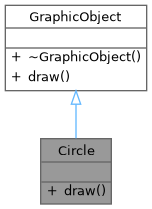
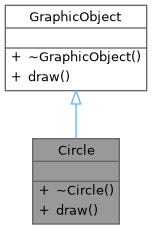
deploy: 8df7f7f30e215f2ab390649db434ee97bf69bb2b

Changed region(s): [[0.2105, 0.6029, 0.7895, 1.0], [0.0263, 0.201, 0.9737, 0.5167], [0.0263, 0.0, 0.9737, 0.1435]]

diff --git a/editorcontroller_8h_source.html b/editorcontroller_8h_source.html
@@ -92,17 +92,17 @@ $(document).ready(function() { init_codefold(0); });
 <div class="foldopen" id="foldopen00018" data-start="{" data-end="};">
 <div class="line"><a id="l00018" name="l00018"></a><span class="lineno"><a class="line" href="classEditorController.html">   18</a></span><span class="keyword">class </span><a class="code hl_class" href="classEditorController.html">EditorController</a> {</div>
 <div class="line"><a id="l00019" name="l00019"></a><span class="lineno">   19</span><span class="keyword">public</span>:</div>
-<div class="line"><a id="l00020" name="l00020"></a><span class="lineno"><a class="line" href="classEditorController.html#a94914431124dedb036bb23295a218e6b">   20</a></span>    <span class="keyword">explicit</span> <a class="code hl_function" href="classEditorController.html#a94914431124dedb036bb23295a218e6b">EditorController</a>(std::shared_ptr&lt;Document&gt; document);</div>
+<div class="line"><a id="l00020" name="l00020"></a><span class="lineno"><a class="line" href="classEditorController.html#a94914431124dedb036bb23295a218e6b">   20</a></span>    <span class="keyword">explicit</span> <a class="code hl_function" href="classEditorController.html#a94914431124dedb036bb23295a218e6b">EditorController</a>(std::shared_ptr&lt;Document&gt; document) {(void)document;};</div>
 <div class="line"><a id="l00021" name="l00021"></a><span class="lineno">   21</span> </div>
-<div class="line"><a id="l00022" name="l00022"></a><span class="lineno"><a class="line" href="classEditorController.html#ab442202f8dcff28f1e1ea28f6b7e4783">   22</a></span>    <span class="keywordtype">void</span> <a class="code hl_function" href="classEditorController.html#ab442202f8dcff28f1e1ea28f6b7e4783">newDocument</a>();</div>
+<div class="line"><a id="l00022" name="l00022"></a><span class="lineno"><a class="line" href="classEditorController.html#ab442202f8dcff28f1e1ea28f6b7e4783">   22</a></span>    <span class="keywordtype">void</span> <a class="code hl_function" href="classEditorController.html#ab442202f8dcff28f1e1ea28f6b7e4783">newDocument</a>() {};</div>
 <div class="line"><a id="l00023" name="l00023"></a><span class="lineno">   23</span> </div>
 <div class="line"><a id="l00028" name="l00028"></a><span class="lineno"><a class="line" href="classEditorController.html#afc43a06680455e654fd0f673515512d0">   28</a></span>    <span class="keywordtype">void</span> <a class="code hl_function" href="classEditorController.html#afc43a06680455e654fd0f673515512d0">importDocument</a>(<span class="keyword">const</span> std::string &amp;path);</div>
 <div class="line"><a id="l00029" name="l00029"></a><span class="lineno">   29</span> </div>
-<div class="line"><a id="l00034" name="l00034"></a><span class="lineno"><a class="line" href="classEditorController.html#a0544178c75ec1a963bdb097a9b037681">   34</a></span>    <span class="keywordtype">void</span> <a class="code hl_function" href="classEditorController.html#a0544178c75ec1a963bdb097a9b037681">exportDocument</a>(<span class="keyword">const</span> std::string &amp;path);</div>
+<div class="line"><a id="l00034" name="l00034"></a><span class="lineno"><a class="line" href="classEditorController.html#a0544178c75ec1a963bdb097a9b037681">   34</a></span>    <span class="keywordtype">void</span> <a class="code hl_function" href="classEditorController.html#a0544178c75ec1a963bdb097a9b037681">exportDocument</a>(<span class="keyword">const</span> std::string &amp;path) {(void)path;};</div>
 <div class="line"><a id="l00035" name="l00035"></a><span class="lineno">   35</span> </div>
-<div class="line"><a id="l00040" name="l00040"></a><span class="lineno"><a class="line" href="classEditorController.html#a9a14b7c31f68eb2ee72bed1bdb5787a8">   40</a></span>    <span class="keywordtype">void</span> <a class="code hl_function" href="classEditorController.html#a9a14b7c31f68eb2ee72bed1bdb5787a8">createObject</a>(std::shared_ptr&lt;GraphicObject&gt; obj);</div>
+<div class="line"><a id="l00040" name="l00040"></a><span class="lineno"><a class="line" href="classEditorController.html#a9a14b7c31f68eb2ee72bed1bdb5787a8">   40</a></span>    <span class="keywordtype">void</span> <a class="code hl_function" href="classEditorController.html#a9a14b7c31f68eb2ee72bed1bdb5787a8">createObject</a>(std::shared_ptr&lt;GraphicObject&gt; obj) {(void)obj;};</div>
 <div class="line"><a id="l00041" name="l00041"></a><span class="lineno">   41</span> </div>
-<div class="line"><a id="l00046" name="l00046"></a><span class="lineno"><a class="line" href="classEditorController.html#a775a51c5ab4b2f17e519e4734142d834">   46</a></span>    <span class="keywordtype">void</span> <a class="code hl_function" href="classEditorController.html#a775a51c5ab4b2f17e519e4734142d834">deleteObject</a>(std::shared_ptr&lt;GraphicObject&gt; obj);</div>
+<div class="line"><a id="l00046" name="l00046"></a><span class="lineno"><a class="line" href="classEditorController.html#a775a51c5ab4b2f17e519e4734142d834">   46</a></span>    <span class="keywordtype">void</span> <a class="code hl_function" href="classEditorController.html#a775a51c5ab4b2f17e519e4734142d834">deleteObject</a>(std::shared_ptr&lt;GraphicObject&gt; obj) {(void)obj;};</div>
 <div class="line"><a id="l00047" name="l00047"></a><span class="lineno">   47</span> </div>
 <div class="line"><a id="l00048" name="l00048"></a><span class="lineno">   48</span><span class="keyword">private</span>:</div>
 <div class="line"><a id="l00049" name="l00049"></a><span class="lineno">   49</span>    std::shared_ptr&lt;Document&gt; m_document;</div>
@@ -110,11 +110,11 @@ $(document).ready(function() { init_codefold(0); });
 </div>
 <div class="ttc" id="aclassDocument_html"><div class="ttname"><a href="classDocument.html">Document</a></div><div class="ttdoc">Документ векторного редактора.</div><div class="ttdef"><b>Definition</b> document.h:16</div></div>
 <div class="ttc" id="aclassEditorController_html"><div class="ttname"><a href="classEditorController.html">EditorController</a></div><div class="ttdoc">Контроллер графического редактора.</div><div class="ttdef"><b>Definition</b> editorcontroller.h:18</div></div>
-<div class="ttc" id="aclassEditorController_html_a0544178c75ec1a963bdb097a9b037681"><div class="ttname"><a href="classEditorController.html#a0544178c75ec1a963bdb097a9b037681">EditorController::exportDocument</a></div><div class="ttdeci">void exportDocument(const std::string &amp;path)</div><div class="ttdoc">Экспортировать документ в файл.</div></div>
-<div class="ttc" id="aclassEditorController_html_a775a51c5ab4b2f17e519e4734142d834"><div class="ttname"><a href="classEditorController.html#a775a51c5ab4b2f17e519e4734142d834">EditorController::deleteObject</a></div><div class="ttdeci">void deleteObject(std::shared_ptr&lt; GraphicObject &gt; obj)</div><div class="ttdoc">Удалить графический объект.</div></div>
-<div class="ttc" id="aclassEditorController_html_a94914431124dedb036bb23295a218e6b"><div class="ttname"><a href="classEditorController.html#a94914431124dedb036bb23295a218e6b">EditorController::EditorController</a></div><div class="ttdeci">EditorController(std::shared_ptr&lt; Document &gt; document)</div></div>
-<div class="ttc" id="aclassEditorController_html_a9a14b7c31f68eb2ee72bed1bdb5787a8"><div class="ttname"><a href="classEditorController.html#a9a14b7c31f68eb2ee72bed1bdb5787a8">EditorController::createObject</a></div><div class="ttdeci">void createObject(std::shared_ptr&lt; GraphicObject &gt; obj)</div><div class="ttdoc">Создать графический объект.</div></div>
-<div class="ttc" id="aclassEditorController_html_ab442202f8dcff28f1e1ea28f6b7e4783"><div class="ttname"><a href="classEditorController.html#ab442202f8dcff28f1e1ea28f6b7e4783">EditorController::newDocument</a></div><div class="ttdeci">void newDocument()</div></div>
+<div class="ttc" id="aclassEditorController_html_a0544178c75ec1a963bdb097a9b037681"><div class="ttname"><a href="classEditorController.html#a0544178c75ec1a963bdb097a9b037681">EditorController::exportDocument</a></div><div class="ttdeci">void exportDocument(const std::string &amp;path)</div><div class="ttdoc">Экспортировать документ в файл.</div><div class="ttdef"><b>Definition</b> editorcontroller.h:34</div></div>
+<div class="ttc" id="aclassEditorController_html_a775a51c5ab4b2f17e519e4734142d834"><div class="ttname"><a href="classEditorController.html#a775a51c5ab4b2f17e519e4734142d834">EditorController::deleteObject</a></div><div class="ttdeci">void deleteObject(std::shared_ptr&lt; GraphicObject &gt; obj)</div><div class="ttdoc">Удалить графический объект.</div><div class="ttdef"><b>Definition</b> editorcontroller.h:46</div></div>
+<div class="ttc" id="aclassEditorController_html_a94914431124dedb036bb23295a218e6b"><div class="ttname"><a href="classEditorController.html#a94914431124dedb036bb23295a218e6b">EditorController::EditorController</a></div><div class="ttdeci">EditorController(std::shared_ptr&lt; Document &gt; document)</div><div class="ttdef"><b>Definition</b> editorcontroller.h:20</div></div>
+<div class="ttc" id="aclassEditorController_html_a9a14b7c31f68eb2ee72bed1bdb5787a8"><div class="ttname"><a href="classEditorController.html#a9a14b7c31f68eb2ee72bed1bdb5787a8">EditorController::createObject</a></div><div class="ttdeci">void createObject(std::shared_ptr&lt; GraphicObject &gt; obj)</div><div class="ttdoc">Создать графический объект.</div><div class="ttdef"><b>Definition</b> editorcontroller.h:40</div></div>
+<div class="ttc" id="aclassEditorController_html_ab442202f8dcff28f1e1ea28f6b7e4783"><div class="ttname"><a href="classEditorController.html#ab442202f8dcff28f1e1ea28f6b7e4783">EditorController::newDocument</a></div><div class="ttdeci">void newDocument()</div><div class="ttdef"><b>Definition</b> editorcontroller.h:22</div></div>
 <div class="ttc" id="aclassEditorController_html_afc43a06680455e654fd0f673515512d0"><div class="ttname"><a href="classEditorController.html#afc43a06680455e654fd0f673515512d0">EditorController::importDocument</a></div><div class="ttdeci">void importDocument(const std::string &amp;path)</div><div class="ttdoc">Импортировать документ из файла.</div></div>
 <div class="ttc" id="aclassGraphicObject_html"><div class="ttname"><a href="classGraphicObject.html">GraphicObject</a></div><div class="ttdoc">Абстрактный базовый класс графического примитива.</div><div class="ttdef"><b>Definition</b> graphicobject.h:12</div></div>
 </div><!-- fragment --></div><!-- contents -->

diff --git a/classCircle.html b/classCircle.html
@@ -85,7 +85,7 @@ Inheritance diagram for Circle:</div>
 <div class="dyncontent">
 <div class="center"><img src="classCircle__inherit__graph.png" border="0" usemap="#aCircle_inherit__map" alt="Inheritance graph"/></div>
 <map name="aCircle_inherit__map" id="aCircle_inherit__map">
-<area shape="rect" title="Графический примитив «Окружность»." alt="" coords="41,139,111,204"/>
+<area shape="rect" title="Графический примитив «Окружность»." alt="" coords="33,139,119,224"/>
 <area shape="rect" href="classGraphicObject.html" title="Абстрактный базовый класс графического примитива." alt="" coords="5,5,147,91"/>
 <area shape="poly" title=" " alt="" coords="79,104,79,138,73,138,73,104"/>
 </map>
@@ -95,7 +95,7 @@ Collaboration diagram for Circle:</div>
 <div class="dyncontent">
 <div class="center"><img src="classCircle__coll__graph.png" border="0" usemap="#aCircle_coll__map" alt="Collaboration graph"/></div>
 <map name="aCircle_coll__map" id="aCircle_coll__map">
-<area shape="rect" title="Графический примитив «Окружность»." alt="" coords="41,139,111,204"/>
+<area shape="rect" title="Графический примитив «Окружность»." alt="" coords="33,139,119,224"/>
 <area shape="rect" href="classGraphicObject.html" title="Абстрактный базовый класс графического примитива." alt="" coords="5,5,147,91"/>
 <area shape="poly" title=" " alt="" coords="79,104,79,138,73,138,73,104"/>
 </map>
@@ -103,6 +103,8 @@ Collaboration diagram for Circle:</div>
 <table class="memberdecls">
 <tr class="heading"><td colspan="2"><h2 class="groupheader"><a id="pub-methods" name="pub-methods"></a>
 Public Member Functions</h2></td></tr>
+<tr class="memitem:af7a52228c8211080cf2100b55c8a7a64" id="r_af7a52228c8211080cf2100b55c8a7a64"><td class="memItemLeft" align="right" valign="top">&#160;</td><td class="memItemRight" valign="bottom"><a class="el" href="classCircle.html#af7a52228c8211080cf2100b55c8a7a64">~Circle</a> () override=default</td></tr>
+<tr class="separator:af7a52228c8211080cf2100b55c8a7a64"><td class="memSeparator" colspan="2">&#160;</td></tr>
 <tr class="memitem:a1761e05fd2be436df2414eba613b473d" id="r_a1761e05fd2be436df2414eba613b473d"><td class="memItemLeft" align="right" valign="top">void&#160;</td><td class="memItemRight" valign="bottom"><a class="el" href="classCircle.html#a1761e05fd2be436df2414eba613b473d">draw</a> () const override</td></tr>
 <tr class="memdesc:a1761e05fd2be436df2414eba613b473d"><td class="mdescLeft">&#160;</td><td class="mdescRight">Отрисовка графического примитива.  <br /></td></tr>
 <tr class="separator:a1761e05fd2be436df2414eba613b473d"><td class="memSeparator" colspan="2">&#160;</td></tr>
@@ -113,7 +115,33 @@ Public Member Functions</h2></td></tr>
 <a name="details" id="details"></a><h2 class="groupheader">Detailed Description</h2>
 <div class="textblock"><p>Графический примитив «Окружность». </p>
 <p>Конкретная реализация графического объекта. Наследуется от <a class="el" href="classGraphicObject.html" title="Абстрактный базовый класс графического примитива.">GraphicObject</a> и реализует интерфейс отрисовки. </p>
-</div><h2 class="groupheader">Member Function Documentation</h2>
+</div><h2 class="groupheader">Constructor &amp; Destructor Documentation</h2>
+<a id="af7a52228c8211080cf2100b55c8a7a64" name="af7a52228c8211080cf2100b55c8a7a64"></a>
+<h2 class="memtitle"><span class="permalink"><a href="#af7a52228c8211080cf2100b55c8a7a64">&#9670;&#160;</a></span>~Circle()</h2>
+
+<div class="memitem">
+<div class="memproto">
+<table class="mlabels">
+  <tr>
+  <td class="mlabels-left">
+      <table class="memname">
+        <tr>
+          <td class="memname">Circle::~Circle </td>
+          <td>(</td>
+          <td class="paramname"></td><td>)</td>
+          <td></td>
+        </tr>
+      </table>
+  </td>
+  <td class="mlabels-right">
+<span class="mlabels"><span class="mlabel">override</span><span class="mlabel">default</span></span>  </td>
+  </tr>
+</table>
+</div><div class="memdoc">
+
+</div>
+</div>
+<h2 class="groupheader">Member Function Documentation</h2>
 <a id="a1761e05fd2be436df2414eba613b473d" name="a1761e05fd2be436df2414eba613b473d"></a>
 <h2 class="memtitle"><span class="permalink"><a href="#a1761e05fd2be436df2414eba613b473d">&#9670;&#160;</a></span>draw()</h2>
 
@@ -132,7 +160,7 @@ Public Member Functions</h2></td></tr>
       </table>
   </td>
   <td class="mlabels-right">
-<span class="mlabels"><span class="mlabel">override</span><span class="mlabel">virtual</span></span>  </td>
+<span class="mlabels"><span class="mlabel">inline</span><span class="mlabel">override</span><span class="mlabel">virtual</span></span>  </td>
   </tr>
 </table>
 </div><div class="memdoc">

diff --git a/classEditorController-members.html b/classEditorController-members.html
@@ -75,12 +75,12 @@ $(function() {
 
 <p>This is the complete list of members for <a class="el" href="classEditorController.html">EditorController</a>, including all inherited members.</p>
 <table class="directory">
-  <tr class="even"><td class="entry"><a class="el" href="classEditorController.html#a9a14b7c31f68eb2ee72bed1bdb5787a8">createObject</a>(std::shared_ptr&lt; GraphicObject &gt; obj)</td><td class="entry"><a class="el" href="classEditorController.html">EditorController</a></td><td class="entry"></td></tr>
-  <tr class="odd"><td class="entry"><a class="el" href="classEditorController.html#a775a51c5ab4b2f17e519e4734142d834">deleteObject</a>(std::shared_ptr&lt; GraphicObject &gt; obj)</td><td class="entry"><a class="el" href="classEditorController.html">EditorController</a></td><td class="entry"></td></tr>
-  <tr class="even"><td class="entry"><a class="el" href="classEditorController.html#a94914431124dedb036bb23295a218e6b">EditorController</a>(std::shared_ptr&lt; Document &gt; document)</td><td class="entry"><a class="el" href="classEditorController.html">EditorController</a></td><td class="entry"><span class="mlabel">explicit</span></td></tr>
-  <tr class="odd"><td class="entry"><a class="el" href="classEditorController.html#a0544178c75ec1a963bdb097a9b037681">exportDocument</a>(const std::string &amp;path)</td><td class="entry"><a class="el" href="classEditorController.html">EditorController</a></td><td class="entry"></td></tr>
+  <tr class="even"><td class="entry"><a class="el" href="classEditorController.html#a9a14b7c31f68eb2ee72bed1bdb5787a8">createObject</a>(std::shared_ptr&lt; GraphicObject &gt; obj)</td><td class="entry"><a class="el" href="classEditorController.html">EditorController</a></td><td class="entry"><span class="mlabel">inline</span></td></tr>
+  <tr class="odd"><td class="entry"><a class="el" href="classEditorController.html#a775a51c5ab4b2f17e519e4734142d834">deleteObject</a>(std::shared_ptr&lt; GraphicObject &gt; obj)</td><td class="entry"><a class="el" href="classEditorController.html">EditorController</a></td><td class="entry"><span class="mlabel">inline</span></td></tr>
+  <tr class="even"><td class="entry"><a class="el" href="classEditorController.html#a94914431124dedb036bb23295a218e6b">EditorController</a>(std::shared_ptr&lt; Document &gt; document)</td><td class="entry"><a class="el" href="classEditorController.html">EditorController</a></td><td class="entry"><span class="mlabel">inline</span><span class="mlabel">explicit</span></td></tr>
+  <tr class="odd"><td class="entry"><a class="el" href="classEditorController.html#a0544178c75ec1a963bdb097a9b037681">exportDocument</a>(const std::string &amp;path)</td><td class="entry"><a class="el" href="classEditorController.html">EditorController</a></td><td class="entry"><span class="mlabel">inline</span></td></tr>
   <tr class="even"><td class="entry"><a class="el" href="classEditorController.html#afc43a06680455e654fd0f673515512d0">importDocument</a>(const std::string &amp;path)</td><td class="entry"><a class="el" href="classEditorController.html">EditorController</a></td><td class="entry"></td></tr>
-  <tr class="odd"><td class="entry"><a class="el" href="classEditorController.html#ab442202f8dcff28f1e1ea28f6b7e4783">newDocument</a>()</td><td class="entry"><a class="el" href="classEditorController.html">EditorController</a></td><td class="entry"></td></tr>
+  <tr class="odd"><td class="entry"><a class="el" href="classEditorController.html#ab442202f8dcff28f1e1ea28f6b7e4783">newDocument</a>()</td><td class="entry"><a class="el" href="classEditorController.html">EditorController</a></td><td class="entry"><span class="mlabel">inline</span></td></tr>
 </table></div><!-- contents -->
 <!-- start footer part -->
 <hr class="footer"/><address class="footer"><small>

diff --git a/main_8cpp.html b/main_8cpp.html
@@ -77,29 +77,33 @@ $(function() {
 <div class="textblock"><code>#include &lt;<a class="el" href="editorcontroller_8h_source.html">editorcontroller.h</a>&gt;</code><br />
 <code>#include &lt;<a class="el" href="circle_8h_source.html">circle.h</a>&gt;</code><br />
 <code>#include &lt;<a class="el" href="document_8h_source.html">document.h</a>&gt;</code><br />
+<code>#include &lt;<a class="el" href="rectangle_8h_source.html">rectangle.h</a>&gt;</code><br />
 </div><div class="textblock"><div class="dynheader">
 Include dependency graph for main.cpp:</div>
 <div class="dyncontent">
 <div class="center"><img src="main_8cpp__incl.png" border="0" usemap="#amain_8cpp" alt=""/></div>
 <map name="amain_8cpp" id="amain_8cpp">
-<area shape="rect" title=" " alt="" coords="180,5,263,31"/>
-<area shape="rect" href="editorcontroller_8h.html" title=" " alt="" coords="15,79,148,104"/>
-<area shape="poly" title=" " alt="" coords="200,33,117,75,115,70,198,28"/>
-<area shape="rect" href="circle_8h.html" title=" " alt="" coords="299,79,368,104"/>
-<area shape="poly" title=" " alt="" coords="241,28,305,69,302,73,238,33"/>
-<area shape="rect" href="document_8h.html" title=" " alt="" coords="172,79,271,104"/>
-<area shape="poly" title=" " alt="" coords="224,31,224,65,219,65,219,31"/>
-<area shape="rect" title=" " alt="" coords="5,152,83,177"/>
-<area shape="poly" title=" " alt="" coords="78,106,59,141,54,139,73,103"/>
-<area shape="rect" title=" " alt="" coords="107,152,165,177"/>
-<area shape="poly" title=" " alt="" coords="92,103,121,140,117,143,88,106"/>
-<area shape="rect" href="graphicobject_8h.html" title=" " alt="" coords="277,152,400,177"/>
-<area shape="poly" title=" " alt="" coords="337,104,339,138,334,139,332,105"/>
-<area shape="poly" title=" " alt="" coords="194,106,86,149,84,144,192,102"/>
-<area shape="poly" title=" " alt="" coords="209,106,162,145,159,141,206,102"/>
-<area shape="poly" title=" " alt="" coords="242,102,309,142,306,147,239,106"/>
-<area shape="rect" title=" " alt="" coords="190,152,253,177"/>
-<area shape="poly" title=" " alt="" coords="224,104,224,138,219,138,219,104"/>
+<area shape="rect" title=" " alt="" coords="224,5,307,31"/>
+<area shape="rect" href="editorcontroller_8h.html" title=" " alt="" coords="5,79,139,104"/>
+<area shape="poly" title=" " alt="" coords="235,33,117,76,115,71,233,28"/>
+<area shape="rect" href="circle_8h.html" title=" " alt="" coords="285,79,355,104"/>
+<area shape="poly" title=" " alt="" coords="276,29,305,66,301,69,272,33"/>
+<area shape="rect" href="document_8h.html" title=" " alt="" coords="163,79,261,104"/>
+<area shape="poly" title=" " alt="" coords="259,33,231,69,227,66,254,29"/>
+<area shape="rect" href="rectangle_8h.html" title=" " alt="" coords="379,79,474,104"/>
+<area shape="poly" title=" " alt="" coords="292,28,389,71,387,75,290,33"/>
+<area shape="rect" title=" " alt="" coords="15,152,92,177"/>
+<area shape="poly" title=" " alt="" coords="71,105,62,140,57,138,66,104"/>
+<area shape="rect" title=" " alt="" coords="116,152,175,177"/>
+<area shape="poly" title=" " alt="" coords="86,102,125,140,122,144,82,106"/>
+<area shape="rect" href="graphicobject_8h.html" title=" " alt="" coords="287,152,409,177"/>
+<area shape="poly" title=" " alt="" coords="327,103,341,138,336,140,322,105"/>
+<area shape="poly" title=" " alt="" coords="188,106,93,149,91,144,185,102"/>
+<area shape="poly" title=" " alt="" coords="203,106,167,144,164,140,199,103"/>
+<area shape="poly" title=" " alt="" coords="235,102,315,143,313,148,233,106"/>
+<area shape="rect" title=" " alt="" coords="199,152,262,177"/>
+<area shape="poly" title=" " alt="" coords="218,104,227,138,222,140,213,105"/>
+<area shape="poly" title=" " alt="" coords="416,106,373,145,369,141,412,102"/>
 </map>
 </div>
 </div><table class="memberdecls">

diff --git a/circle_8h_source.html b/circle_8h_source.html
@@ -87,11 +87,13 @@ $(document).ready(function() { init_codefold(0); });
 <div class="foldopen" id="foldopen00010" data-start="{" data-end="};">
 <div class="line"><a id="l00010" name="l00010"></a><span class="lineno"><a class="line" href="classCircle.html">   10</a></span><span class="keyword">class </span><a class="code hl_class" href="classCircle.html">Circle</a> final : <span class="keyword">public</span> <a class="code hl_class" href="classGraphicObject.html">GraphicObject</a> {</div>
 <div class="line"><a id="l00011" name="l00011"></a><span class="lineno">   11</span><span class="keyword">public</span>:</div>
-<div class="line"><a id="l00012" name="l00012"></a><span class="lineno"><a class="line" href="classCircle.html#a1761e05fd2be436df2414eba613b473d">   12</a></span>    <span class="keywordtype">void</span> <a class="code hl_function" href="classCircle.html#a1761e05fd2be436df2414eba613b473d">draw</a>() <span class="keyword">const override</span>;</div>
-<div class="line"><a id="l00013" name="l00013"></a><span class="lineno">   13</span>};</div>
+<div class="line"><a id="l00012" name="l00012"></a><span class="lineno"><a class="line" href="classCircle.html#af7a52228c8211080cf2100b55c8a7a64">   12</a></span>    <a class="code hl_function" href="classCircle.html#af7a52228c8211080cf2100b55c8a7a64">~Circle</a>() <span class="keyword">override</span> = <span class="keywordflow">default</span>;</div>
+<div class="line"><a id="l00013" name="l00013"></a><span class="lineno"><a class="line" href="classCircle.html#a1761e05fd2be436df2414eba613b473d">   13</a></span>    <span class="keywordtype">void</span> <a class="code hl_function" href="classCircle.html#a1761e05fd2be436df2414eba613b473d">draw</a>()<span class="keyword"> const override </span>{};</div>
+<div class="line"><a id="l00014" name="l00014"></a><span class="lineno">   14</span>};</div>
 </div>
 <div class="ttc" id="aclassCircle_html"><div class="ttname"><a href="classCircle.html">Circle</a></div><div class="ttdoc">Графический примитив «Окружность».</div><div class="ttdef"><b>Definition</b> circle.h:10</div></div>
-<div class="ttc" id="aclassCircle_html_a1761e05fd2be436df2414eba613b473d"><div class="ttname"><a href="classCircle.html#a1761e05fd2be436df2414eba613b473d">Circle::draw</a></div><div class="ttdeci">void draw() const override</div><div class="ttdoc">Отрисовка графического примитива.</div></div>
+<div class="ttc" id="aclassCircle_html_a1761e05fd2be436df2414eba613b473d"><div class="ttname"><a href="classCircle.html#a1761e05fd2be436df2414eba613b473d">Circle::draw</a></div><div class="ttdeci">void draw() const override</div><div class="ttdoc">Отрисовка графического примитива.</div><div class="ttdef"><b>Definition</b> circle.h:13</div></div>
+<div class="ttc" id="aclassCircle_html_af7a52228c8211080cf2100b55c8a7a64"><div class="ttname"><a href="classCircle.html#af7a52228c8211080cf2100b55c8a7a64">Circle::~Circle</a></div><div class="ttdeci">~Circle() override=default</div></div>
 <div class="ttc" id="aclassGraphicObject_html"><div class="ttname"><a href="classGraphicObject.html">GraphicObject</a></div><div class="ttdoc">Абстрактный базовый класс графического примитива.</div><div class="ttdef"><b>Definition</b> graphicobject.h:12</div></div>
 <div class="ttc" id="agraphicobject_8h_html"><div class="ttname"><a href="graphicobject_8h.html">graphicobject.h</a></div></div>
 </div><!-- fragment --></div><!-- contents -->

diff --git a/rectangle_8h_source.html b/rectangle_8h_source.html
@@ -88,12 +88,12 @@ $(document).ready(function() { init_codefold(0); });
 <div class="line"><a id="l00010" name="l00010"></a><span class="lineno"><a class="line" href="classRectangle.html">   10</a></span><span class="keyword">class </span><a class="code hl_class" href="classRectangle.html">Rectangle</a> final : <span class="keyword">public</span> <a class="code hl_class" href="classGraphicObject.html">GraphicObject</a></div>
 <div class="line"><a id="l00011" name="l00011"></a><span class="lineno">   11</span>{</div>
 <div class="line"><a id="l00012" name="l00012"></a><span class="lineno">   12</span><span class="keyword">public</span>:</div>
-<div class="line"><a id="l00013" name="l00013"></a><span class="lineno"><a class="line" href="classRectangle.html#a17bb76d1851a4744fa27838944c8bba3">   13</a></span>    <span class="keywordtype">void</span> <a class="code hl_function" href="classRectangle.html#a17bb76d1851a4744fa27838944c8bba3">draw</a>() <span class="keyword">const override</span>;</div>
+<div class="line"><a id="l00013" name="l00013"></a><span class="lineno"><a class="line" href="classRectangle.html#a17bb76d1851a4744fa27838944c8bba3">   13</a></span>    <span class="keywordtype">void</span> <a class="code hl_function" href="classRectangle.html#a17bb76d1851a4744fa27838944c8bba3">draw</a>()<span class="keyword"> const override </span>{};</div>
 <div class="line"><a id="l00014" name="l00014"></a><span class="lineno">   14</span>};</div>
 </div>
 <div class="ttc" id="aclassGraphicObject_html"><div class="ttname"><a href="classGraphicObject.html">GraphicObject</a></div><div class="ttdoc">Абстрактный базовый класс графического примитива.</div><div class="ttdef"><b>Definition</b> graphicobject.h:12</div></div>
 <div class="ttc" id="aclassRectangle_html"><div class="ttname"><a href="classRectangle.html">Rectangle</a></div><div class="ttdoc">Графический примитив «Прямоугольник».</div><div class="ttdef"><b>Definition</b> rectangle.h:11</div></div>
-<div class="ttc" id="aclassRectangle_html_a17bb76d1851a4744fa27838944c8bba3"><div class="ttname"><a href="classRectangle.html#a17bb76d1851a4744fa27838944c8bba3">Rectangle::draw</a></div><div class="ttdeci">void draw() const override</div><div class="ttdoc">Отрисовка графического примитива.</div></div>
+<div class="ttc" id="aclassRectangle_html_a17bb76d1851a4744fa27838944c8bba3"><div class="ttname"><a href="classRectangle.html#a17bb76d1851a4744fa27838944c8bba3">Rectangle::draw</a></div><div class="ttdeci">void draw() const override</div><div class="ttdoc">Отрисовка графического примитива.</div><div class="ttdef"><b>Definition</b> rectangle.h:13</div></div>
 <div class="ttc" id="agraphicobject_8h_html"><div class="ttname"><a href="graphicobject_8h.html">graphicobject.h</a></div></div>
 </div><!-- fragment --></div><!-- contents -->
 <!-- start footer part -->

diff --git a/classEditorController.html b/classEditorController.html
@@ -132,7 +132,7 @@ Public Member Functions</h2></td></tr>
       </table>
   </td>
   <td class="mlabels-right">
-<span class="mlabels"><span class="mlabel">explicit</span></span>  </td>
+<span class="mlabels"><span class="mlabel">inline</span><span class="mlabel">explicit</span></span>  </td>
   </tr>
 </table>
 </div><div class="memdoc">
@@ -145,6 +145,9 @@ Public Member Functions</h2></td></tr>
 
 <div class="memitem">
 <div class="memproto">
+<table class="mlabels">
+  <tr>
+  <td class="mlabels-left">
       <table class="memname">
         <tr>
           <td class="memname">void EditorController::createObject </td>
@@ -154,6 +157,11 @@ Public Member Functions</h2></td></tr>
           <td></td>
         </tr>
       </table>
+  </td>
+  <td class="mlabels-right">
+<span class="mlabels"><span class="mlabel">inline</span></span>  </td>
+  </tr>
+</table>
 </div><div class="memdoc">
 
 <p>Создать графический объект. </p>
@@ -171,6 +179,9 @@ Public Member Functions</h2></td></tr>
 
 <div class="memitem">
 <div class="memproto">
+<table class="mlabels">
+  <tr>
+  <td class="mlabels-left">
       <table class="memname">
         <tr>
           <td class="memname">void EditorController::deleteObject </td>
@@ -180,6 +191,11 @@ Public Member Functions</h2></td></tr>
           <td></td>
         </tr>
       </table>
+  </td>
+  <td class="mlabels-right">
+<span class="mlabels"><span class="mlabel">inline</span></span>  </td>
+  </tr>
+</table>
 </div><div class="memdoc">
 
 <p>Удалить графический объект. </p>
@@ -197,6 +213,9 @@ Public Member Functions</h2></td></tr>
 
 <div class="memitem">
 <div class="memproto">
+<table class="mlabels">
+  <tr>
+  <td class="mlabels-left">
       <table class="memname">
         <tr>
           <td class="memname">void EditorController::exportDocument </td>
@@ -206,6 +225,11 @@ Public Member Functions</h2></td></tr>
           <td></td>
         </tr>
       </table>
+  </td>
+  <td class="mlabels-right">
+<span class="mlabels"><span class="mlabel">inline</span></span>  </td>
+  </tr>
+</table>
 </div><div class="memdoc">
 
 <p>Экспортировать документ в файл. </p>
@@ -249,6 +273,9 @@ Public Member Functions</h2></td></tr>
 
 <div class="memitem">
 <div class="memproto">
+<table class="mlabels">
+  <tr>
+  <td class="mlabels-left">
       <table class="memname">
         <tr>
           <td class="memname">void EditorController::newDocument </td>
@@ -257,6 +284,11 @@ Public Member Functions</h2></td></tr>
           <td></td>
         </tr>
       </table>
+  </td>
+  <td class="mlabels-right">
+<span class="mlabels"><span class="mlabel">inline</span></span>  </td>
+  </tr>
+</table>
 </div><div class="memdoc">
 
 </div>

diff --git a/classCircle-members.html b/classCircle-members.html
@@ -75,8 +75,9 @@ $(function() {
 
 <p>This is the complete list of members for <a class="el" href="classCircle.html">Circle</a>, including all inherited members.</p>
 <table class="directory">
-  <tr class="even"><td class="entry"><a class="el" href="classCircle.html#a1761e05fd2be436df2414eba613b473d">draw</a>() const override</td><td class="entry"><a class="el" href="classCircle.html">Circle</a></td><td class="entry"><span class="mlabel">virtual</span></td></tr>
-  <tr class="odd"><td class="entry"><a class="el" href="classGraphicObject.html#ac846d87c44dfa5784d44073542bea8c5">~GraphicObject</a>()=default</td><td class="entry"><a class="el" href="classGraphicObject.html">GraphicObject</a></td><td class="entry"><span class="mlabel">virtual</span></td></tr>
+  <tr class="even"><td class="entry"><a class="el" href="classCircle.html#a1761e05fd2be436df2414eba613b473d">draw</a>() const override</td><td class="entry"><a class="el" href="classCircle.html">Circle</a></td><td class="entry"><span class="mlabel">inline</span><span class="mlabel">virtual</span></td></tr>
+  <tr class="odd"><td class="entry"><a class="el" href="classCircle.html#af7a52228c8211080cf2100b55c8a7a64">~Circle</a>() override=default</td><td class="entry"><a class="el" href="classCircle.html">Circle</a></td><td class="entry"></td></tr>
+  <tr class="even"><td class="entry"><a class="el" href="classGraphicObject.html#ac846d87c44dfa5784d44073542bea8c5">~GraphicObject</a>()=default</td><td class="entry"><a class="el" href="classGraphicObject.html">GraphicObject</a></td><td class="entry"><span class="mlabel">virtual</span></td></tr>
 </table></div><!-- contents -->
 <!-- start footer part -->
 <hr class="footer"/><address class="footer"><small>

diff --git a/classGraphicObject.html b/classGraphicObject.html
@@ -85,11 +85,11 @@ Inheritance diagram for GraphicObject:</div>
 <div class="dyncontent">
 <div class="center"><img src="classGraphicObject__inherit__graph.png" border="0" usemap="#aGraphicObject_inherit__map" alt="Inheritance graph"/></div>
 <map name="aGraphicObject_inherit__map" id="aGraphicObject_inherit__map">
-<area shape="rect" title="Абстрактный базовый класс графического примитива." alt="" coords="19,5,161,91"/>
-<area shape="rect" href="classCircle.html" title="Графический примитив «Окружность»." alt="" coords="5,139,76,204"/>
-<area shape="poly" title=" " alt="" coords="70,105,56,139,51,137,65,103"/>
-<area shape="rect" href="classRectangle.html" title="Графический примитив «Прямоугольник»." alt="" coords="100,139,179,204"/>
-<area shape="poly" title=" " alt="" coords="115,103,129,137,124,139,110,105"/>
+<area shape="rect" title="Абстрактный базовый класс графического примитива." alt="" coords="31,5,173,91"/>
+<area shape="rect" href="classCircle.html" title="Графический примитив «Окружность»." alt="" coords="5,139,92,224"/>
+<area shape="poly" title=" " alt="" coords="82,104,68,139,63,137,78,102"/>
+<area shape="rect" href="classRectangle.html" title="Графический примитив «Прямоугольник»." alt="" coords="116,149,195,214"/>
+<area shape="poly" title=" " alt="" coords="126,102,145,147,140,149,122,104"/>
 </map>
 </div>
 <div class="dynheader">

diff --git a/classRectangle-members.html b/classRectangle-members.html
@@ -75,7 +75,7 @@ $(function() {
 
 <p>This is the complete list of members for <a class="el" href="classRectangle.html">Rectangle</a>, including all inherited members.</p>
 <table class="directory">
-  <tr class="even"><td class="entry"><a class="el" href="classRectangle.html#a17bb76d1851a4744fa27838944c8bba3">draw</a>() const override</td><td class="entry"><a class="el" href="classRectangle.html">Rectangle</a></td><td class="entry"><span class="mlabel">virtual</span></td></tr>
+  <tr class="even"><td class="entry"><a class="el" href="classRectangle.html#a17bb76d1851a4744fa27838944c8bba3">draw</a>() const override</td><td class="entry"><a class="el" href="classRectangle.html">Rectangle</a></td><td class="entry"><span class="mlabel">inline</span><span class="mlabel">virtual</span></td></tr>
   <tr class="odd"><td class="entry"><a class="el" href="classGraphicObject.html#ac846d87c44dfa5784d44073542bea8c5">~GraphicObject</a>()=default</td><td class="entry"><a class="el" href="classGraphicObject.html">GraphicObject</a></td><td class="entry"><span class="mlabel">virtual</span></td></tr>
 </table></div><!-- contents -->
 <!-- start footer part -->

diff --git a/graphicobject_8h.html b/graphicobject_8h.html
@@ -90,9 +90,10 @@ This graph shows which files directly or indirectly include this file:</div>
 <area shape="poly" title=" " alt="" coords="219,44,219,79,213,79,213,44"/>
 <area shape="rect" href="rectangle_8h.html" title=" " alt="" coords="313,79,453,104"/>
 <area shape="poly" title=" " alt="" coords="256,34,356,76,354,81,254,38"/>
-<area shape="rect" href="main_8cpp.html" title=" " alt="" coords="97,152,180,177"/>
-<area shape="poly" title=" " alt="" coords="87,111,128,150,124,154,83,115"/>
-<area shape="poly" title=" " alt="" coords="195,115,153,154,150,150,192,111"/>
+<area shape="rect" href="main_8cpp.html" title=" " alt="" coords="175,152,257,177"/>
+<area shape="poly" title=" " alt="" coords="101,107,192,149,190,154,98,112"/>
+<area shape="poly" title=" " alt="" coords="219,118,219,152,213,152,213,118"/>
+<area shape="poly" title=" " alt="" coords="344,112,244,154,242,149,342,107"/>
 </map>
 </div>
 </div>

diff --git a/rectangle_8h.html b/rectangle_8h.html
@@ -89,6 +89,16 @@ Include dependency graph for rectangle.h:</div>
 <area shape="poly" title=" " alt="" coords="78,31,78,65,73,65,73,31"/>
 </map>
 </div>
+</div><div class="textblock"><div class="dynheader">
+This graph shows which files directly or indirectly include this file:</div>
+<div class="dyncontent">
+<div class="center"><img src="rectangle_8h__dep__incl.png" border="0" usemap="#amodel_2rectangle_8hdep" alt=""/></div>
+<map name="amodel_2rectangle_8hdep" id="amodel_2rectangle_8hdep">
+<area shape="rect" title=" " alt="" coords="5,5,145,31"/>
+<area shape="rect" href="main_8cpp.html" title=" " alt="" coords="34,79,117,104"/>
+<area shape="poly" title=" " alt="" coords="78,44,78,79,73,79,73,44"/>
+</map>
+</div>
 </div>
 <p><a href="rectangle_8h_source.html">Go to the source code of this file.</a></p>
 <table class="memberdecls">
